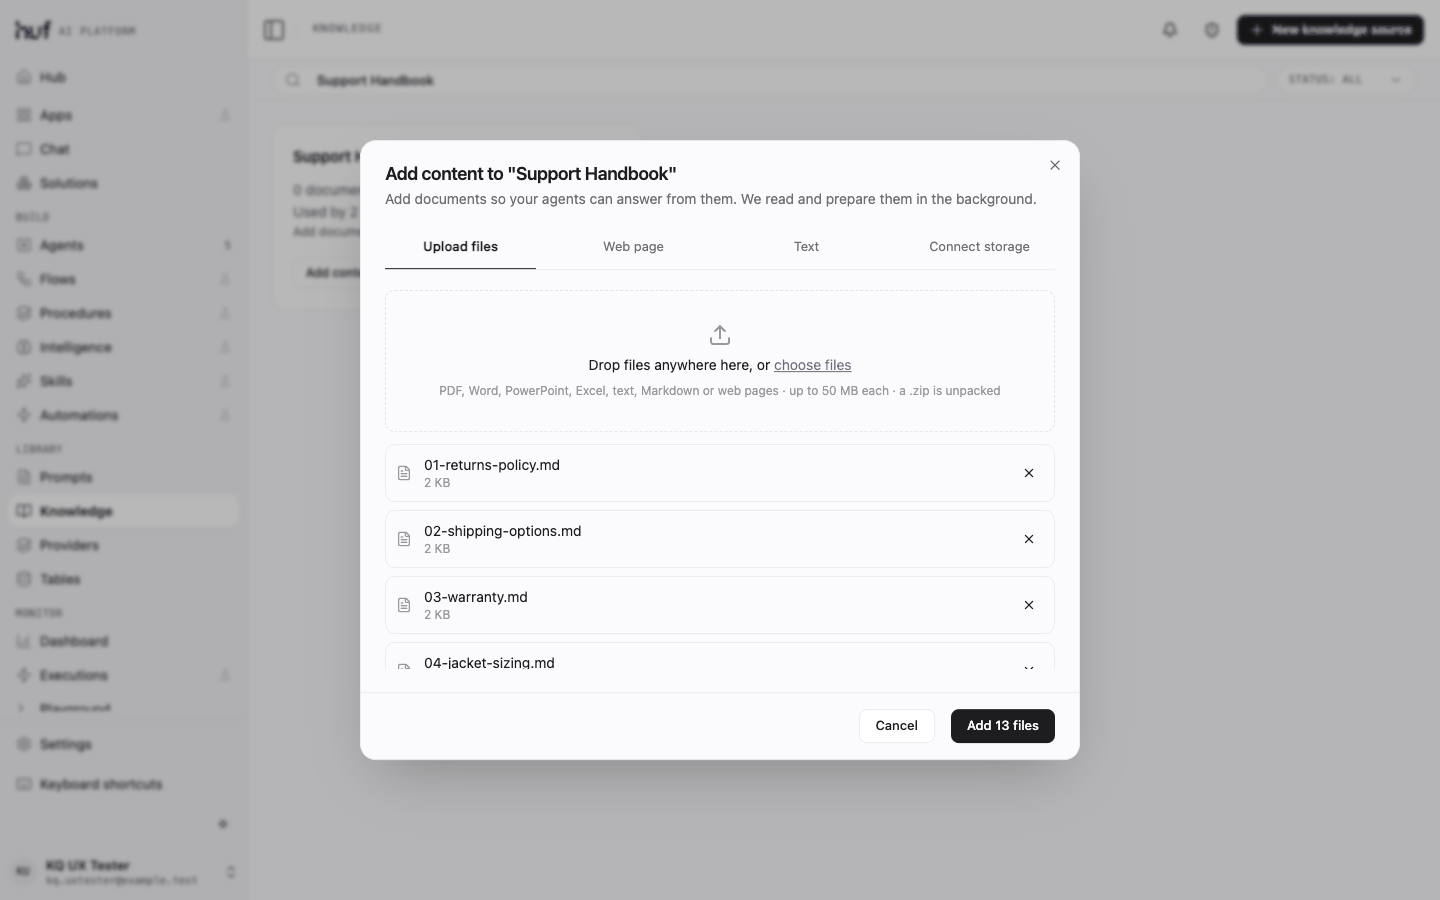
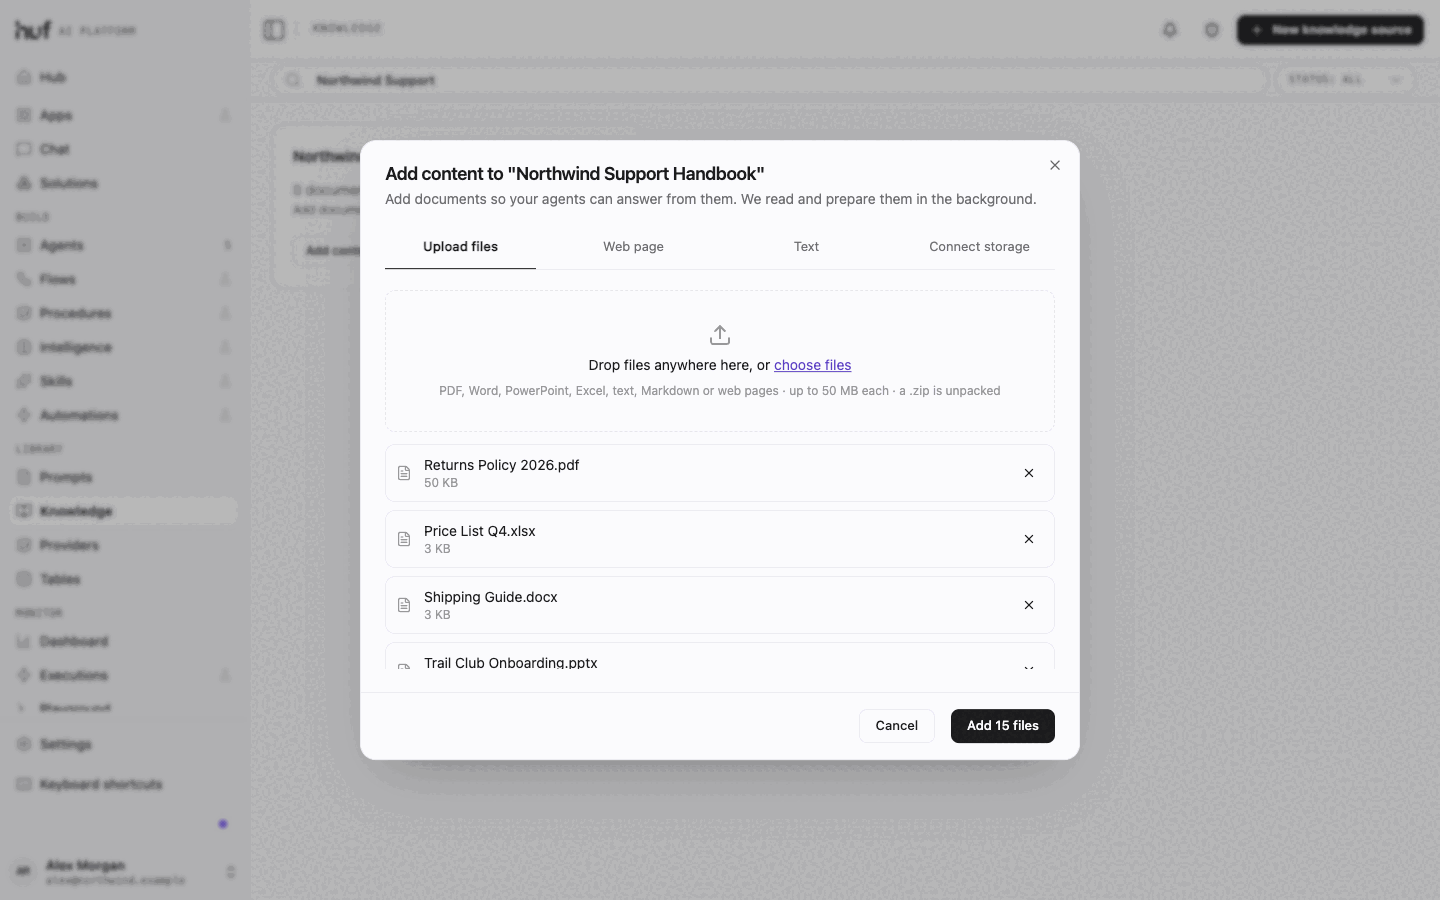
docs: realistic mixed-format knowledge screenshots, plus tables builder/agent access, agent tools and flow builder shots
Track-Item: DOC-5

diff --git a/docs/features/tables.md b/docs/features/tables.md
@@ -10,7 +10,9 @@ The list shows your tables, with description, group, icon, field count and recor
 
 ## Create and edit a table
 
-**New table** (`/data/new`) opens the table builder. Set a name, description, group and icon, a naming method (Autoincrement, Hash or By Field, with an optional title field), then add fields. Field types available: Data, Small Text, Text, Long Text, Int, Float, Currency, Percent, Check, Date, Datetime, Time, Duration, Select, Link, Rating, Color, Phone, Attach and Attach Image, plus Tab Break and Section Break for layout. Reorder fields by dragging. Editing an existing table uses the same builder (`/data/:tableId/edit`).
+**New table** (`/data/new`) opens the table builder. Set a name, description, group and icon, a naming method (Autoincrement, Hash or By Field, with an optional title field), then add fields. Field types available: Data, Small Text, Text, Long Text, Int, Float, Currency, Percent, Check, Date, Datetime, Time, Duration, Select, Link, Rating, Color, Phone, Attach and Attach Image, plus Tab Break and Section Break for layout. Reorder fields by dragging. Editing an existing table uses the same builder (`/data/:tableId/edit`). Select a field to see its properties: label, options for a Select (one per line), default value, help text, and the Required, Read only and Show in list view switches.
+
+![Table builder](../screenshots/tables/03-builder.png)
 
 ## Records
 
@@ -21,6 +23,8 @@ Open a table (`/data/:tableId`) to browse, add, edit and delete records (`/data/
 ## Agent access
 
 Per table you choose which agents may use it and what they may do: View, Create, Edit or Delete (Delete is marked destructive). Huf creates the matching tools for the agent from this setting. If no agents exist yet, create one first.
+
+![Agent access for Orders](../screenshots/tables/04-agent-access.png)
 
 ## Limits and notes
 

diff --git a/README.md b/README.md
@@ -175,7 +175,7 @@ Connect your agents to inbound and outbound communication channels:
 
 [![Knowledge source](./docs/screenshots/knowledge/02-source-ready.png)](./docs/features/knowledge.md)
 
-*A ready source with 16 documents.* [Read more](./docs/features/knowledge.md)
+*A ready source with 18 documents in mixed formats (PDF, Word, Excel, PowerPoint, HTML, text and Markdown).* [Read more](./docs/features/knowledge.md)
 
 Ground AI responses in real business knowledge and structured databases:
 
@@ -185,9 +185,9 @@ Ground AI responses in real business knowledge and structured databases:
 
 ### Data Tables
 
-[![Data table](./docs/screenshots/tables/02-records.png)](./docs/features/tables.md)
+[![Data table builder](./docs/screenshots/tables/03-builder.png)](./docs/features/tables.md)
 
-*An Orders table with sortable columns and filters.* [Read more](./docs/features/tables.md)
+*The table builder: typed fields, a selected Status field with its options, and required, read-only and list-view settings.* [Read more](./docs/features/tables.md)
 
 Create and manage custom structured datasets directly inside HUF:
 
@@ -206,9 +206,9 @@ Run agents automatically based on real-time events:
 
 ### Visual Flow Builder
 
-[![Flow builder](./docs/screenshots/flows/02-builder.png)](./docs/features/flows.md)
+[![Flow builder](./docs/screenshots/flows/03-builder-steps.png)](./docs/features/flows.md)
 
-*A webhook flow with a condition and an agent step.* [Read more](./docs/features/flows.md)
+*A webhook flow with a condition, an agent step, a human approval and a saved result, with the agent step's settings open.* [Read more](./docs/features/flows.md)
 
 Design complex workflows through a modern React Flow / XYFlow visual canvas:
 

diff --git a/docs/features/flows.md b/docs/features/flows.md
@@ -14,6 +14,10 @@ The canvas has a header with Save, Runs (history), Settings, Run (one real run w
 
 ![Flow builder](../screenshots/flows/02-builder.png)
 
+Click a step to set it up in the panel on the right. A step with everything it needs shows a green dot; one that still needs something is marked. This flow checks the order status, asks the Order Tracker agent for an update, waits for a human approval and saves the result:
+
+![Flow builder with a step open](../screenshots/flows/03-builder-steps.png)
+
 **Triggers:** Webhook (secret sent in the `X-Huf-Secret` header, limited to 60 calls a minute), Schedule, When a document changes (created, changed, deleted, submitted, cancelled), and A chat message (WhatsApp, Telegram or another connected channel).
 
 **Steps:** Run agent, Do something in an app, Web request, Send email, Slack, Google Sheets, Google Drive files, If / else, Choose with AI, Repeat for each item, Wait for approval (human-in-the-loop with Approved, Rejected and Timed out paths), Change data, Run Python code, Save/Look up/Forget saved data, Create a record, and Finish.

diff --git a/docs/features/agents.md b/docs/features/agents.md
@@ -34,6 +34,12 @@ The Knowledge tab lists the knowledge sources attached to the agent. Add an exis
 
 ![Agent knowledge tab](../screenshots/agents/03-knowledge-tab.png)
 
+### Tools tab
+
+The Tools & MCP tab lists the tools the agent may use. Here the Order Tracker has the View and Edit tools for the Orders data table (Get Document, Get List and Update Document), created from the table's **Agent access** setting. See [tables.md](tables.md).
+
+![Agent tools tab](../screenshots/agents/04-tools.png)
+
 ## Limits and notes
 
 - Which tabs and actions you see depends on your Huf permissions; read-only users cannot edit agents.
